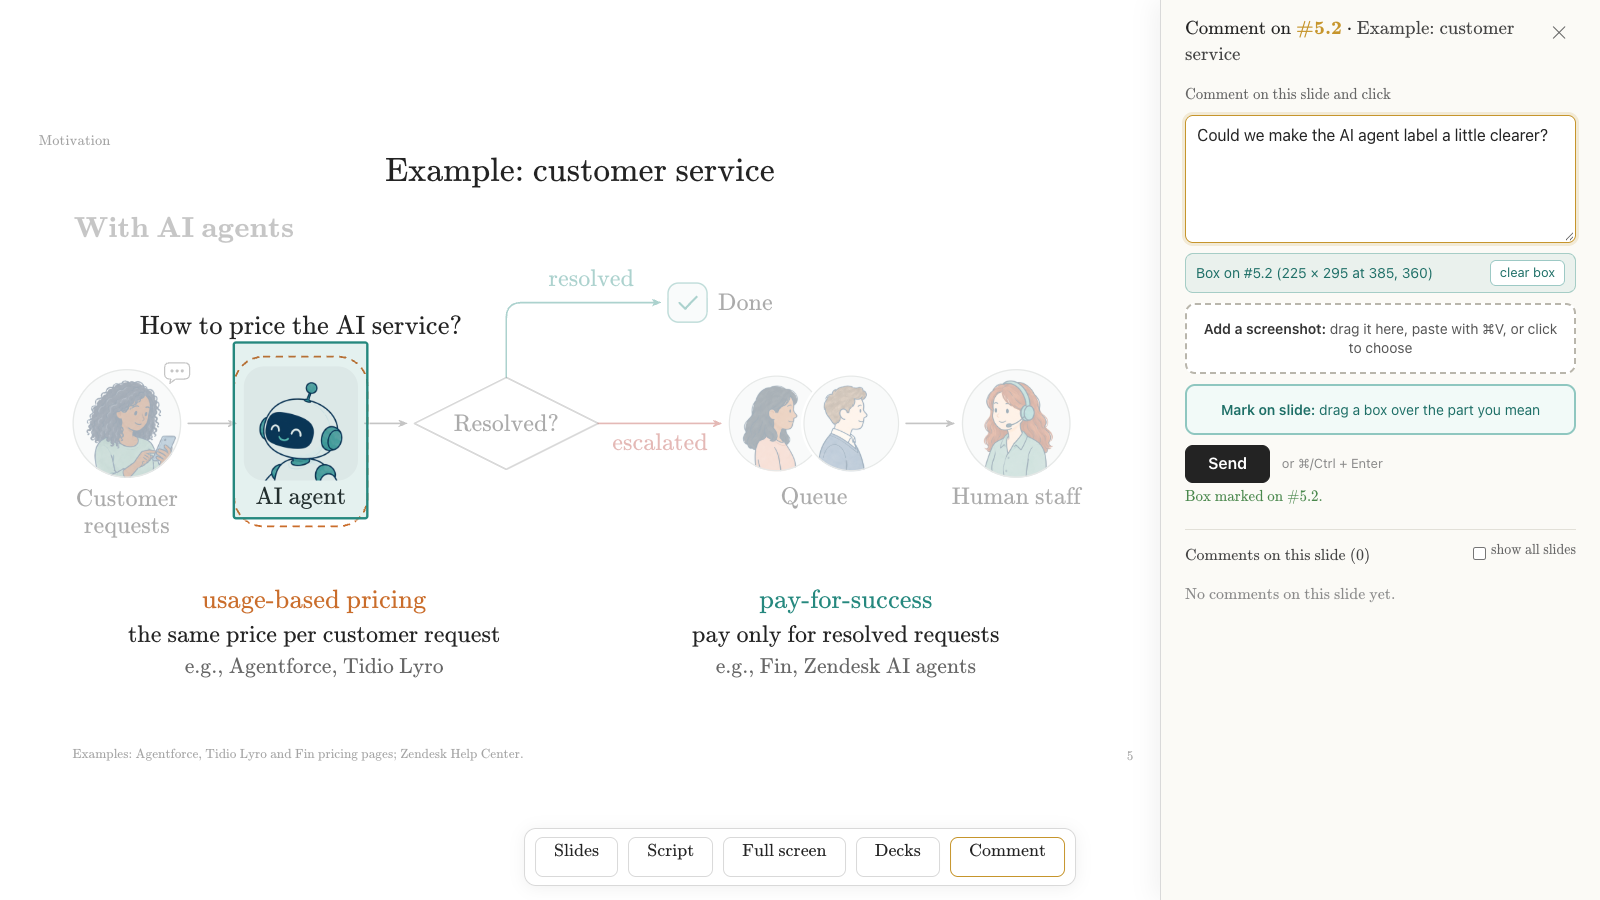
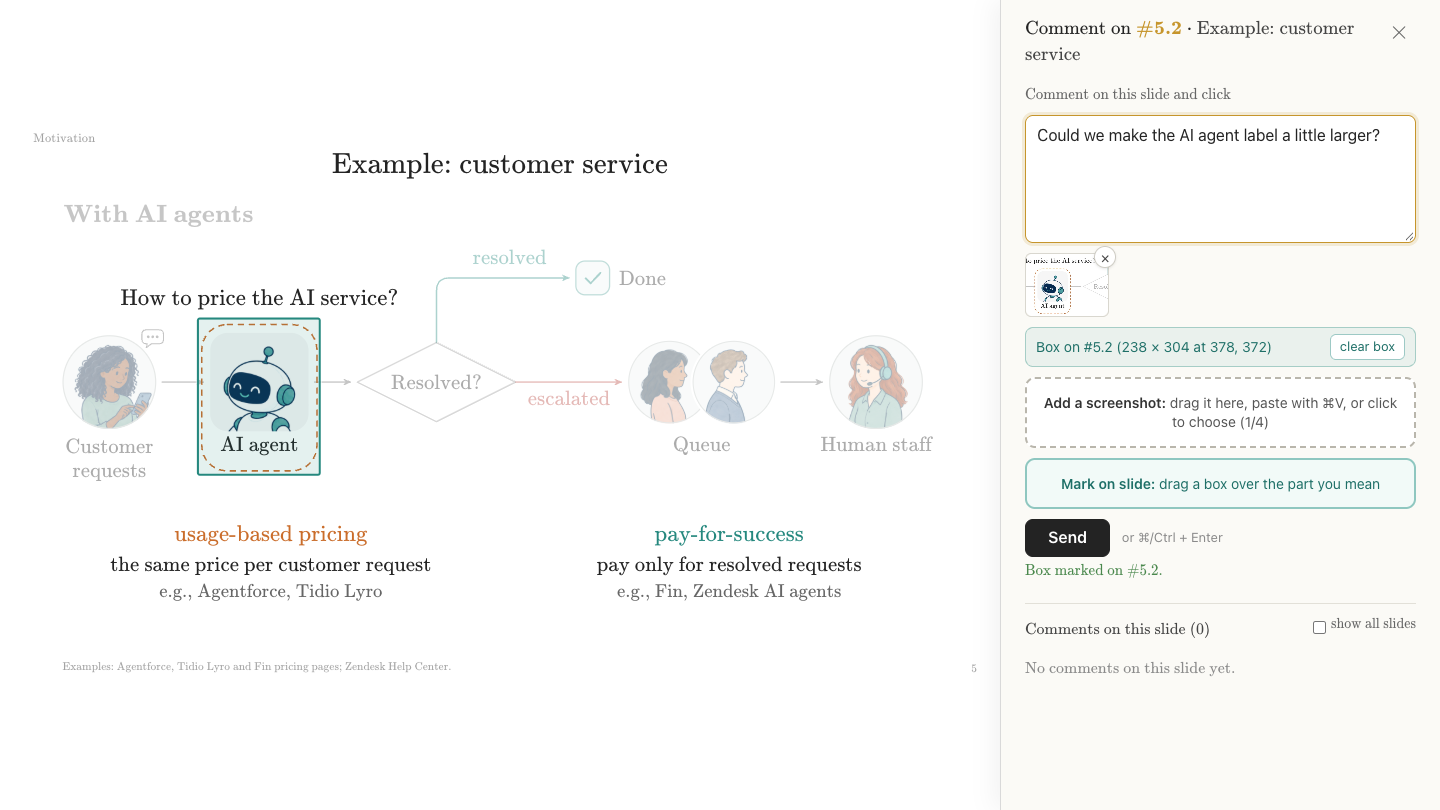
README: figures for the menu, comment flow, script editing and inbox; fix text left from the old bottom bar
New figures, shot at 1440 px from the example deck on a local preview: the menu and corner dot, the
overview, a comment in three steps (write, sent, answered), and script editing on the shared site.
An SVG shows the local inbox workflow. The full-screen, Comment-button and thread shots are gone: they
showed the old bar with its Script button.

README and USAGE: coauthors press c to comment and s twice for the script, since there is no Script
button; removing presenter.js and presenter.css restores the engine's own bar, which is not always
visible; a sample of what watch.mjs prints; a clone step.

The script panel's editing hint uses a colon instead of a dash, and SCRIPT.md calls the title slide Title.

diff --git a/deck/js/engine.js b/deck/js/engine.js
@@ -298,7 +298,7 @@
     const s = D.slides[D.cur], i = +div.dataset.i, raw = notesShown(s)[i] || '';
     const at = clickOffset(div, ev);
     const ta = document.createElement('textarea'); ta.value = raw; ta.spellcheck = true;
-    div.innerHTML = `<span class="k">${i === 0 ? 'on entry' : 'click ' + i} · editing — click outside or press ⌘↵ to save, Esc to cancel</span>`;
+    div.innerHTML = `<span class="k">${i === 0 ? 'on entry' : 'click ' + i} · editing: click outside or press ⌘↵ to save, Esc to cancel</span>`;
     div.appendChild(ta);
     const fitTa = () => { ta.style.height = 'auto'; ta.style.height = (ta.scrollHeight + 4) + 'px'; };
     const before = (loadEdits()[s.id] || {})[i];   // this note's saved edit before this edit began (Esc puts it back)

diff --git a/README.md b/README.md
@@ -11,17 +11,30 @@ tagged with the exact slide and click, so you, or an agent such as Claude Code o
 
 ## Comments your AI agent can act on
 
-**For coauthors: one link.** Send the site's link and passcode. On any slide they press **Comment**, type, draw a box around the
-part they mean (**Mark on slide**), and paste or drop up to four screenshots. Or they open **Script** and rewrite a note. Everyone
-with the link and passcode has the same access.
+**For coauthors: one link.** Send the site's link and passcode. On any slide they press `c` (or **Comment** in the menu), type,
+draw a box around the part they mean (**Mark on slide**), and paste or drop up to four screenshots. Or they press `s` twice to
+open the script and rewrite a note. Everyone with the link and passcode has the same access.
 
-![Drawing a box and writing a comment](docs/img/comment-box.png)
+![A comment on slide 5, click 2, with a box marked on the slide and a screenshot attached](docs/img/comment-box.png)
 
 **For your agent: precise, local feedback.** `cloudflare/comments/watch.mjs` brings new comments to your computer. Each comment
 comes with its slide ID, click number, text, the marked box (with `--render-box`, a slide PNG with that box drawn on it), and the
 attached images, saved under `work/cloudflare/`. A coding agent can read that, edit the slide's file in
 [deck/slides/](deck/slides/), check it with `npm run shots`, publish, and answer with
 `cloudflare/comments/resolve.mjs`. The reply appears under the original comment on the site.
+
+The comment in the picture reaches your computer like this:
+
+```text
+=== COMMENT (template) === #5.2 (M08) Example: customer service
+by (unnamed) | 2026-11-04T18:14:18.325Z | open
+Could we make the AI agent label a little larger?
+box: x=378 y=372 w=238 h=304 (1920x1080 slide coordinates)
+reference: open deck/index.html; slide 5 (M08), click 2
+cid: 0mw2frkyd-f205d40b
+image 0: image/webp 380x300 10.3 KB
+saved: work/cloudflare/local-5c02014bd8b5/attachments/0mw2frkyd-f205d40b_0.webp
+```
 
 ```mermaid
 flowchart LR
@@ -73,7 +86,7 @@ each finished comment to any agent command, for example `--command claude -p` or
 
 ## Open the talk
 
-Open [deck/index.html](deck/index.html) in your browser. The images, fonts, and math renderer are included, so you can present offline.
+Clone or download this repository, then open [deck/index.html](deck/index.html) in your browser. The images, fonts, and math renderer are included, so you can present offline.
 
 If you prefer a local web address, run this from the repository folder:
 
@@ -84,6 +97,8 @@ python3 -m http.server 8000 --bind 127.0.0.1 --directory deck
 Then open [http://127.0.0.1:8000](http://127.0.0.1:8000). This is a slide preview; the shared comment service is set up below.
 
 Presenting needs only a few keys: **`s`** slides, **`s` `s`** script, **`c`** comment, **`f`** full screen. The menu (**Slides**, **Full screen**, **Comment**) opens with **`m`** or the small dot in the bottom-right corner, which fades in when the pointer comes near.
+
+![The bottom of a slide with the menu open: Slides, Full screen, and Comment, and the dot in the bottom-right corner](docs/img/menu.png)
 
 | Action | Mouse or key |
 | --- | --- |
@@ -101,18 +116,18 @@ Presenting needs only a few keys: **`s`** slides, **`s` `s`** script, **`c`** co
 | Close overview, comments, menu, or blank screen; cancel a jump | Escape |
 
 **Why these controls.** In a talk, nothing should appear unless you ask for it.
-- The menu used to slide up whenever the pointer touched the bottom edge, which happens by accident while presenting. Now it opens only on purpose (`m` or the corner dot), and closes once you use it.
+- The menu does not slide up when the pointer touches the bottom edge, which happens by accident while presenting. It opens only on purpose (`m` or the corner dot) and closes once you use it.
 - The actions you need most are single keys you can press without looking at the screen.
 - The script has no button, so a stray click never shows your notes to the audience; `s` `s` opens it.
 - The pointer hides after two seconds without moving, so it never sits on a slide.
 
-The controls live in `deck/js/presenter.js` and `deck/css/presenter.css`; remove those two lines from `deck/index.html` to get the always-visible bottom bar back.
+The controls live in `deck/js/presenter.js` and `deck/css/presenter.css`. To go back to the engine's own bottom bar, which slides up when the pointer reaches the bottom edge and has a **Script** button, remove the two lines that load them from `deck/index.html`.
 
 The address records the current slide and build, such as `#5.2` for slide 5, click 2. Visible source links on slides open their sources.
 
-The Slides overview lets you jump straight to a thumbnail.
+The overview (`s`) shows every slide with its number and title; select one to jump there.
 
-![The slide overview](docs/img/overview.png)
+![The slide overview, with the current slide outlined in gold](docs/img/overview.png)
 
 ## What the features look like
 
@@ -122,22 +137,18 @@ A slide can reveal one idea at a time. These are three real states of the same s
 | --- | --- | --- |
 | ![Customer-service figure on entry](docs/img/build-01.png) | ![The first build adds the AI workflow](docs/img/build-02.png) | ![The second build adds the pricing comparison](docs/img/build-03.png) |
 
-The Script panel follows the current click, highlights its note, and shows the next slide's title. Click a note to edit it.
+The script panel (`s` `s`) follows the current click, highlights its note, and shows the next slide's title. Click a note to edit it.
 
-![The script beside its slide](docs/img/script.png)
+![The script beside its slide, with the note for the current click highlighted](docs/img/script.png)
 
-Full screen keeps the slide large while retaining access to the controls.
+On the Cloudflare preview or shared site, `c` opens feedback for the current slide and click (see
+[Comments your AI agent can act on](#comments-your-ai-agent-can-act-on)). A comment goes through three steps:
 
-![The deck in actual full-screen mode](docs/img/fullscreen.png)
+| 1. Write, mark, attach | 2. Sent | 3. Fixed and answered |
+| --- | --- | --- |
+| ![The comment panel with text, an attached screenshot, and a marked box](docs/img/comment-write.png) | ![The sent comment listed under its slide](docs/img/comment-sent.png) | ![The comment marked done, with the author's reply under it](docs/img/comment-reply.png) |
 
-On the Cloudflare preview or shared site, **Comment** opens feedback for the current slide (see
-[Comments your AI agent can act on](#comments-your-ai-agent-can-act-on)). Stay on that build when sending a marked box.
-
-![The Comment button on the shared deck](docs/img/comment-button.png)
-
-The author can fix the slide and post a resolution reply. That reply stays under the original comment. **Show all slides** lets you review feedback across the talk.
-
-![A sample comment with the author's reply](docs/img/comment-thread.png)
+Stay on that build when sending a marked box. The author fixes the slide, republishes, and replies with `resolve.mjs`; the reply stays under the original comment. Tick **show all slides** to see the feedback across the talk.
 
 The shared site asks for a passcode before displaying the deck or its feedback. Everyone with the passcode has the same viewing and editing access.
 
@@ -179,7 +190,7 @@ npm run script:export -- --force
 
 ### Edits made in the browser
 
-Click any note in the Script panel. Click outside or press Command/Ctrl + Enter to finish; Escape restores the previous edit. Edits are also saved as you type.
+Click any note in the script panel. Click outside or press Command (or Control) + Enter to finish; Escape restores the previous edit. Edits are also saved as you type.
 
 In an ordinary local or offline deck, these edits stay in that browser. **Export edits** downloads the changed notes, and **Copy** copies them. In a supporting browser, **Link edits file** keeps a file such as `SCRIPT_EDITS.md` updated.
 
@@ -187,7 +198,7 @@ Those browser exports are a review handoff with old and new text. To adopt one, 
 
 On the Cloudflare site, browser edits are also sent to the author after a short pause. A saved message confirms receipt. The author reviews and applies them locally, then republishes the deck so everyone receives the updated script. If another coauthor saved the same note, a comparison keeps both versions. Review them before choosing **Use shared version** or **Save my version**.
 
-![A coauthor editing a note on the shared site](docs/img/script-edit.png)
+![A coauthor editing a note in the script panel on the shared site](docs/img/script-edit.png)
 
 ## Bundle, print, and check
 
@@ -217,6 +228,8 @@ flowchart LR
 ```
 
 ## Review locally with an inbox
+
+![The local inbox workflow: write in INBOX.md, the watcher notifies your agent, the agent archives, fixes, checks, and logs, then resolve closes the item](docs/img/inbox-flow.svg)
 
 [inbox/INBOX.md](inbox/INBOX.md) is a place to write feedback while reviewing the deck. Add one top-level bullet below its separator. Include the slide ID or number, and put related details or screenshot links in indented lines. End the complete comment with `done!` when it is ready for the coding agent to read:
 
@@ -289,7 +302,7 @@ npm run cf:dev
 
 Open the address printed by Wrangler, normally [http://127.0.0.1:8788](http://127.0.0.1:8788), and enter your chosen passcode. Pages development runs locally; it takes no `--local` flag. D1 commands use `--local` to select the local database. Keep the same persistence directory when restarting.
 
-Try sending a comment with a box, editing a script note, and using the author commands below. A **Decks** button opens the one-deck list.
+Try sending a comment with a box, editing a script note, and using the author commands below. On this site the menu also has **Decks**, which opens the one-deck list.
 
 ![The template deck list](docs/img/deck-list.png)
 
@@ -340,7 +353,7 @@ Create a Cloudflare account, then run these commands from the repository folder.
 
    The script uses branch `main` by default. If your login has several accounts, set `CLOUDFLARE_ACCOUNT_ID` in your own environment to select the intended account. The project name comes from `CF_PROJECT_NAME`; the database comes from your config.
 
-Share the Pages link and your chosen passcode with coauthors. Ask them to open a slide, choose Comment, optionally mark a box or attach an image, and send. They can open Script to suggest wording changes; the saved message confirms the server received them.
+Share the Pages link and your chosen passcode with coauthors. Ask them to open a slide, press `c` (or **Comment** in the menu), optionally mark a box or attach an image, and send. To suggest wording changes, they press `s` twice to open the script; the saved message confirms the server received them.
 
 For a local build without uploading, run `npm run cf:stage`. It writes `cloudflare/site/`; the Pages Functions stay in the sibling `cloudflare/functions/` folder. The publish script's default action is staging. Uploading requires its explicit `deploy` argument.
 
@@ -395,6 +408,6 @@ For local experiments, leave off `--remote` and the user config. If you change t
 | `tools/` | Apply/watch notes, bundle HTML, and capture builds |
 | `inbox/` | Local feedback template, notification watchers, archive, and work log |
 | `cloudflare/` | The optional shared site, database schema, and author tools |
-| `docs/img/` | Real browser screenshots used in this guide |
+| `docs/img/` | Real browser screenshots and the inbox diagram used in this guide |
 
 The original template code is free to use, modify, and share. The example talk's content, photos, logos, and company screenshots belong to their respective owners and are included as examples. Third-party code and fonts retain their own licenses; see [LICENSE](LICENSE) and the included [MathJax license](deck/vendor/mathjax/LICENSE).

diff --git a/cloudflare/USAGE.md b/cloudflare/USAGE.md
@@ -26,7 +26,7 @@ npx wrangler d1 execute html-slide-comments --local \
 npm run cf:dev
 ```
 
-Open the local address printed by Wrangler, enter your chosen passcode, and try Comment or Script. Pages dev runs locally; its current CLI has no `--local` flag. The D1 command explicitly uses `--local`. Keep the same persistence directory for schema setup, Pages dev and the tools below. Run Pages dev from `cloudflare/` so it finds the sibling `functions/` folder. The package command does this and passes `--d1 COMMENTS_DB`, which explicitly binds the same local database used by the schema and author tools. A database ID is not needed for this local binding.
+Open the local address printed by Wrangler, enter your chosen passcode, and try a comment (`c`) or the script (`s` twice). Pages dev runs locally; its current CLI has no `--local` flag. The D1 command explicitly uses `--local`. Keep the same persistence directory for schema setup, Pages dev and the tools below. Run Pages dev from `cloudflare/` so it finds the sibling `functions/` folder. The package command does this and passes `--d1 COMMENTS_DB`, which explicitly binds the same local database used by the schema and author tools. A database ID is not needed for this local binding.
 
 All three empty tables are needed: `comments`, `comment_images`, and `script_edits`. Runtime state, downloaded attachments and archives belong in ignored directories, never in Git.
 
@@ -77,7 +77,7 @@ The watcher prints each comment's slide, click, text, image attachments and box 
 
 ## Pull coauthor script edits
 
-Coauthors click a note in Script and edit it. The browser first reads shared note versions, then saves your edits locally and submits them in order. If another coauthor saves the same note first, your text stays in this browser and a comparison card lets you use the shared version or explicitly save your version after review. The author reviews, applies, rebuilds and publishes:
+Coauthors open the script (`s` twice), click a note and edit it. The browser first reads shared note versions, then saves your edits locally and submits them in order. If another coauthor saves the same note first, your text stays in this browser and a comparison card lets you use the shared version or explicitly save your version after review. The author reviews, applies, rebuilds and publishes:
 
 ```sh
 node cloudflare/comments/script_watch.mjs --list

diff --git a/SCRIPT.md b/SCRIPT.md
@@ -6,7 +6,7 @@ Use `npm run script:watch` to apply saved changes while you edit. Reload the dec
 
 <!-- Base hashes prevent an old script from overwriting newer slide notes. -->
 
-## 1 · M01 (M01)
+## 1 · Title (M01)
 
 ### M01.0 · on entry
[1 lines of base64/hex data omitted]
